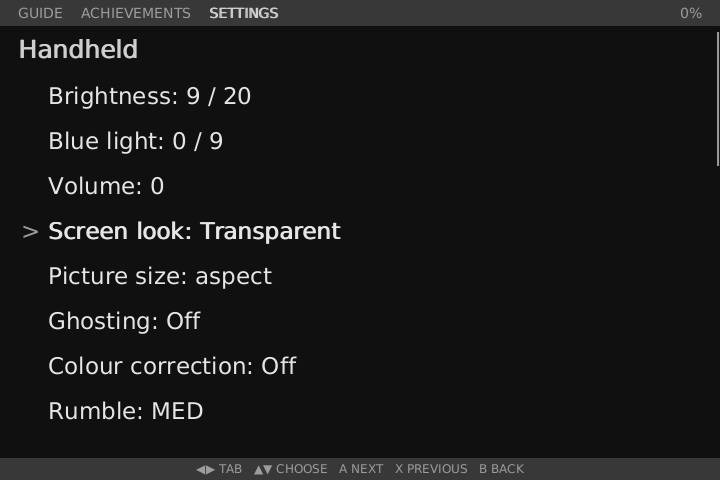
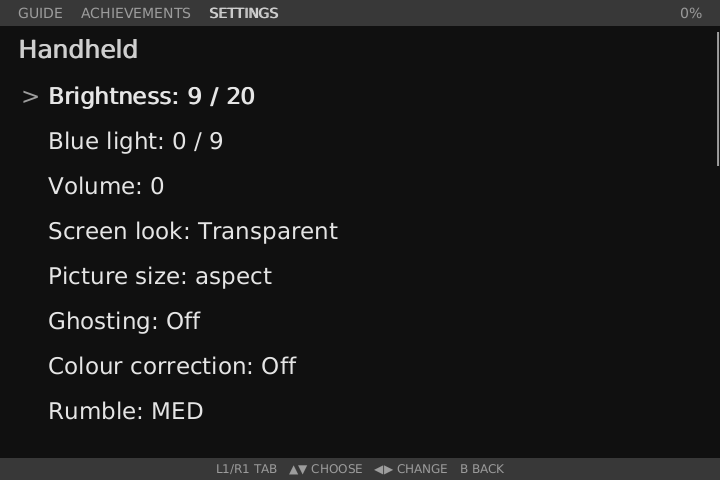
Game menu: L1 and R1 turn the tabs, Left and Right page or change
Left and Right keep paging the guide and the achievements and change the value
of the settings row, as in the other menus; A and X are free again.

Claude-Session: https://claude.ai/code/session_013prUP5ZxuN1XqdtWeLaupt

Changed region(s): [[0.0306, 0.4375, 0.4889, 0.5], [0.275, 0.9688, 0.7333, 1.0], [0.0306, 0.1562, 0.3667, 0.2188]]

diff --git a/crates/cartridge/src/guide_screen.rs b/crates/cartridge/src/guide_screen.rs
@@ -1,10 +1,10 @@
-//! The game menu a short MENU press opens over a game, in three tabs that Left and Right turn
+//! The game menu a short MENU press opens over a game, in three tabs that L1 and R1 turn
 //! between: the game's guide, the game's achievements and the settings. The guide is a
 //! walkthrough the player keeps in GUIDES/<system>/ named as the game is, TXT or HTML, read over
-//! the paused game. L1 and R1 turn a page, Up and Down move a line and keep moving while held,
+//! the paused game. Left and Right turn a page, Up and Down move a line and keep moving while held,
 //! L2 and R2 make the text smaller or larger, X goes on to the game's next guide when it has
 //! several (kept in a folder named as the game), and B or MENU close it. The settings tab is a
-//! list: Up and Down choose a row, A steps it on and X back; it holds what the hotkeys change
+//! list: Up and Down choose a row, Right steps it on and Left back; it holds what the hotkeys change
 //! (brightness, volume, screen look and more) and the options of the core running the game. A
 //! second MENU press straight after the first is still a double press and opens the save
 //! states.
@@ -38,10 +38,10 @@ const REPEAT_EVERY_MS: f64 = 55.0;
 /// How long after the place in a guide last moved it is written to the card.
 const MARK_AFTER_MS: f64 = 2000.0;
 
-pub const KEYS: &str = "◀▶ TAB   L1/R1 PAGE   ▲▼ SCROLL   L2/R2 SIZE   B BACK";
-pub const KEYS_MORE: &str = "◀▶ TAB   L1/R1 PAGE   ▲▼ SCROLL   L2/R2 SIZE   X NEXT GUIDE   B BACK";
-pub const KEYS_ACHIEVEMENTS: &str = "◀▶ TAB   L1/R1 PAGE   ▲▼ SCROLL   L2/R2 SIZE   B BACK";
-pub const KEYS_SETTINGS: &str = "◀▶ TAB   ▲▼ CHOOSE   A NEXT   X PREVIOUS   B BACK";
+pub const KEYS: &str = "L1/R1 TAB   ◀▶ PAGE   ▲▼ SCROLL   L2/R2 SIZE   B BACK";
+pub const KEYS_MORE: &str = "L1/R1 TAB   ◀▶ PAGE   ▲▼ SCROLL   L2/R2 SIZE   X NEXT GUIDE   B BACK";
+pub const KEYS_ACHIEVEMENTS: &str = "L1/R1 TAB   ◀▶ PAGE   ▲▼ SCROLL   L2/R2 SIZE   B BACK";
+pub const KEYS_SETTINGS: &str = "L1/R1 TAB   ▲▼ CHOOSE   ◀▶ CHANGE   B BACK";
 
 /// The tabs the menu turns between.
 #[derive(Clone, Copy, Debug, PartialEq, Eq)]
@@ -501,12 +501,13 @@ impl App {
         let Some(tab) = self.guide.as_ref().map(|g| g.tab) else {
             return;
         };
-        // Left and Right turn the tabs; the settings tab is a list that Up, Down, A and X work
+        // L1 and R1 turn the tabs; the settings tab is a list that Up and Down choose in and
+        // Left and Right change, as in the other menus
         match action {
-            Action::GbaDown(Btn::Right) => return self.guide_switch(true),
-            Action::GbaDown(Btn::Left) => return self.guide_switch(false),
-            Action::GbaDown(Btn::A) if tab == Tab::Settings => return self.guide_change(true),
-            Action::GbaDown(Btn::X) if tab == Tab::Settings => return self.guide_change(false),
+            Action::GbaDown(Btn::R1) | Action::ShelfRight => return self.guide_switch(true),
+            Action::GbaDown(Btn::L1) | Action::ShelfLeft => return self.guide_switch(false),
+            Action::GbaDown(Btn::Right) if tab == Tab::Settings => return self.guide_change(true),
+            Action::GbaDown(Btn::Left) if tab == Tab::Settings => return self.guide_change(false),
             Action::GbaDown(Btn::Down) if tab == Tab::Settings => return self.guide_choose(true),
             Action::GbaDown(Btn::Up) if tab == Tab::Settings => return self.guide_choose(false),
             _ => {}
@@ -529,8 +530,8 @@ impl App {
                     screen.held = None;
                 }
             }
-            Action::GbaDown(Btn::R1) | Action::ShelfRight => screen.page_down(),
-            Action::GbaDown(Btn::L1) | Action::ShelfLeft => screen.page_up(),
+            Action::GbaDown(Btn::R1 | Btn::Right) | Action::ShelfRight => screen.page_down(),
+            Action::GbaDown(Btn::L1 | Btn::Left) | Action::ShelfLeft => screen.page_up(),
             // L2 and R2 rewind and fast-forward in a handheld's game, and are the game's own
             // in a PlayStation's: either way here they size the text
             Action::GbaDown(Btn::R2) | Action::FfStart => screen.resize(1),

diff --git a/crates/cartridge/tests/suite/guide_screen.rs b/crates/cartridge/tests/suite/guide_screen.rs
@@ -97,26 +97,28 @@ fn a_game_with_no_guide_still_opens_the_menu_and_says_so() {
 }
 
 #[test]
-fn left_and_right_turn_the_tabs_round_and_l1_r1_page() {
+fn l1_and_r1_turn_the_tabs_round_and_left_and_right_page() {
     let d = card(true);
     let mut a = playing(&d);
     a.apply(Action::QuickMenu);
     let tab = |a: &App| a.guide().unwrap().tab;
     assert_eq!(tab(&a), Tab::Guide);
-    a.apply(Action::GbaDown(Btn::Right));
+    a.apply(Action::GbaDown(Btn::R1));
     assert_eq!(tab(&a), Tab::Achievements);
-    a.apply(Action::GbaDown(Btn::Right));
+    a.apply(Action::GbaDown(Btn::R1));
     assert_eq!(tab(&a), Tab::Settings);
-    a.apply(Action::GbaDown(Btn::Right));
+    a.apply(Action::GbaDown(Btn::R1));
     assert_eq!(tab(&a), Tab::Guide, "round from the last tab");
-    a.apply(Action::GbaDown(Btn::Left));
+    a.apply(Action::GbaDown(Btn::L1));
     assert_eq!(tab(&a), Tab::Settings);
-    a.apply(Action::GbaDown(Btn::Left));
-    a.apply(Action::GbaDown(Btn::Left));
+    a.apply(Action::GbaDown(Btn::L1));
+    a.apply(Action::GbaDown(Btn::L1));
     assert_eq!(tab(&a), Tab::Guide);
     let top = a.guide().unwrap().top;
-    a.apply(Action::GbaDown(Btn::R1));
-    assert!(a.guide().unwrap().top > top, "R1 still pages the guide");
+    a.apply(Action::GbaDown(Btn::Right));
+    assert!(a.guide().unwrap().top > top, "Right pages the guide");
+    a.apply(Action::GbaDown(Btn::Left));
+    assert_eq!(a.guide().unwrap().top, top, "Left pages back");
 }
 
 #[test]
@@ -124,39 +126,39 @@ fn the_guide_keeps_its_place_while_another_tab_shows() {
     let d = card(true);
     let mut a = playing(&d);
     a.apply(Action::QuickMenu);
-    a.apply(Action::GbaDown(Btn::R1));
-    a.apply(Action::GbaDown(Btn::R1));
+    a.apply(Action::GbaDown(Btn::Right));
+    a.apply(Action::GbaDown(Btn::Right));
     let top = a.guide().unwrap().top;
     assert!(top > 0.0);
-    a.apply(Action::GbaDown(Btn::Right));
-    a.apply(Action::GbaDown(Btn::Left));
+    a.apply(Action::GbaDown(Btn::R1));
+    a.apply(Action::GbaDown(Btn::L1));
     assert_eq!(a.guide().unwrap().top, top);
 }
 
 #[test]
-fn the_settings_tab_steps_a_row_with_a_and_x_and_keeps_it() {
+fn the_settings_tab_steps_a_row_with_left_and_right_and_keeps_it() {
     let d = card(false);
     let mut a = playing(&d);
     a.apply(Action::QuickMenu);
-    a.apply(Action::GbaDown(Btn::Left));
+    a.apply(Action::GbaDown(Btn::L1));
     assert_eq!(a.guide().unwrap().tab, Tab::Settings);
     let before = read_app_state(d.path()).brightness;
-    a.apply(Action::GbaDown(Btn::X));
+    a.apply(Action::GbaDown(Btn::Left));
     assert_eq!(
         read_app_state(d.path()).brightness,
         before - 1,
-        "X steps back"
+        "Left steps back"
     );
-    a.apply(Action::GbaDown(Btn::A));
-    a.apply(Action::GbaDown(Btn::A));
+    a.apply(Action::GbaDown(Btn::Right));
+    a.apply(Action::GbaDown(Btn::Right));
     assert_eq!(
         read_app_state(d.path()).brightness,
         before + 1,
-        "A steps on"
+        "Right steps on"
     );
     // Down moves the cursor to blue light
     a.apply(Action::GbaDown(Btn::Down));
-    a.apply(Action::GbaDown(Btn::A));
+    a.apply(Action::GbaDown(Btn::Right));
     assert_eq!(read_app_state(d.path()).blue_light, 1);
     // and the core's options are asked for
     assert!(a.wants_guide_options());
@@ -168,17 +170,17 @@ fn pages_lines_and_sizes_move_the_guide_and_it_opens_again_where_it_was_left() {
     let mut a = playing(&d);
     a.apply(Action::QuickMenu);
     let top = |a: &App| a.guide().unwrap().top;
-    a.apply(Action::GbaDown(Btn::R1));
+    a.apply(Action::GbaDown(Btn::Right));
     let paged = top(&a);
     assert!(paged > 0.0);
     a.apply(Action::GbaDown(Btn::Down));
     assert!(top(&a) > paged);
     a.apply(Action::GbaDown(Btn::Up));
     assert_eq!(top(&a), paged);
-    a.apply(Action::GbaDown(Btn::L1));
+    a.apply(Action::GbaDown(Btn::Left));
     assert_eq!(top(&a), 0.0);
     for _ in 0..5 {
-        a.apply(Action::GbaDown(Btn::R1));
+        a.apply(Action::GbaDown(Btn::Right));
     }
     let at = a.guide().unwrap().at();
     a.apply(Action::GbaDown(Btn::R2));

diff --git a/CHANGELOG.md b/CHANGELOG.md
@@ -2,12 +2,12 @@
 
 ## Unreleased
 
-- The game menu on a short MENU press has three tabs that Left and Right turn between: GUIDE
-  (as before, now opening for a game with no guide too, where it says where to put one),
+- The game menu on a short MENU press has three tabs that L1 and R1 turn between: GUIDE (as
+  before, now opening for a game with no guide too, where it says where to put one),
   ACHIEVEMENTS (the game's list, unlocked first, with points) and SETTINGS (brightness, blue
   light, volume, screen look, picture size, the Game Boy palette, ghosting, colour correction,
-  rumble, then the running core's own options; Up and Down choose, A steps a value on and X
-  back, each kept at once). L1 and R1 page the guide, so Left and Right no longer do
+  rumble, then the running core's own options; Up and Down choose, Right steps a value on and
+  Left back, each kept at once). Left and Right still page the guide and the achievements
   (`screenshots/game-menu-achievements.png`, `screenshots/game-menu-settings.png`).
 - RetroAchievements, softcore only, ported from nickclyde's slot-plus through fragilesilver's
   slot-fragile (rcheevos 12.5): Settings > Achievements takes the player's own account on the

diff --git a/README.md b/README.md
@@ -142,7 +142,7 @@ is the most useful thing you can send.
   kept per system too.
 - A PlayStation game on several discs is one game: DISC, on SELECT+MENU in a game, puts another
   disc in, and the game resumes with the disc that was in the drive.
-- A short MENU press in a game opens the game menu over it, in three tabs that Left and Right turn
+- A short MENU press in a game opens the game menu over it, in three tabs that L1 and R1 turn
   between: the game's guide (`GUIDES/<system>/<game>.txt` or `.html`, with paging, scrolling and
   eight text sizes, reopened where it was left), its RetroAchievements, and the settings: what
   the hotkeys change and the options of the core that runs the game.
